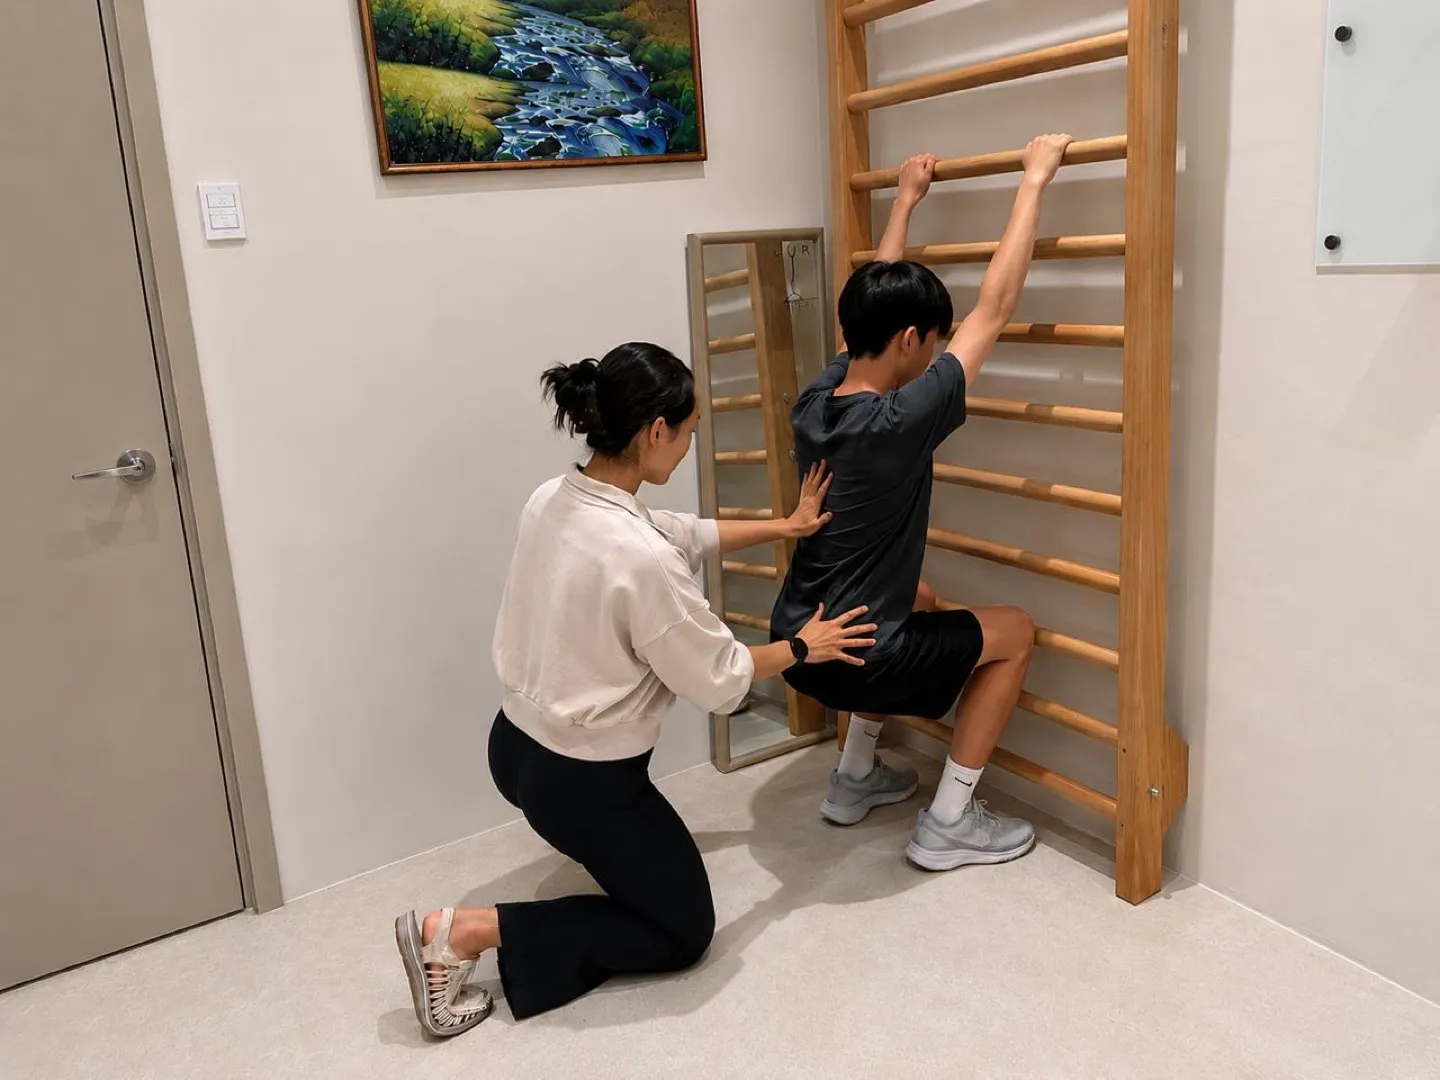
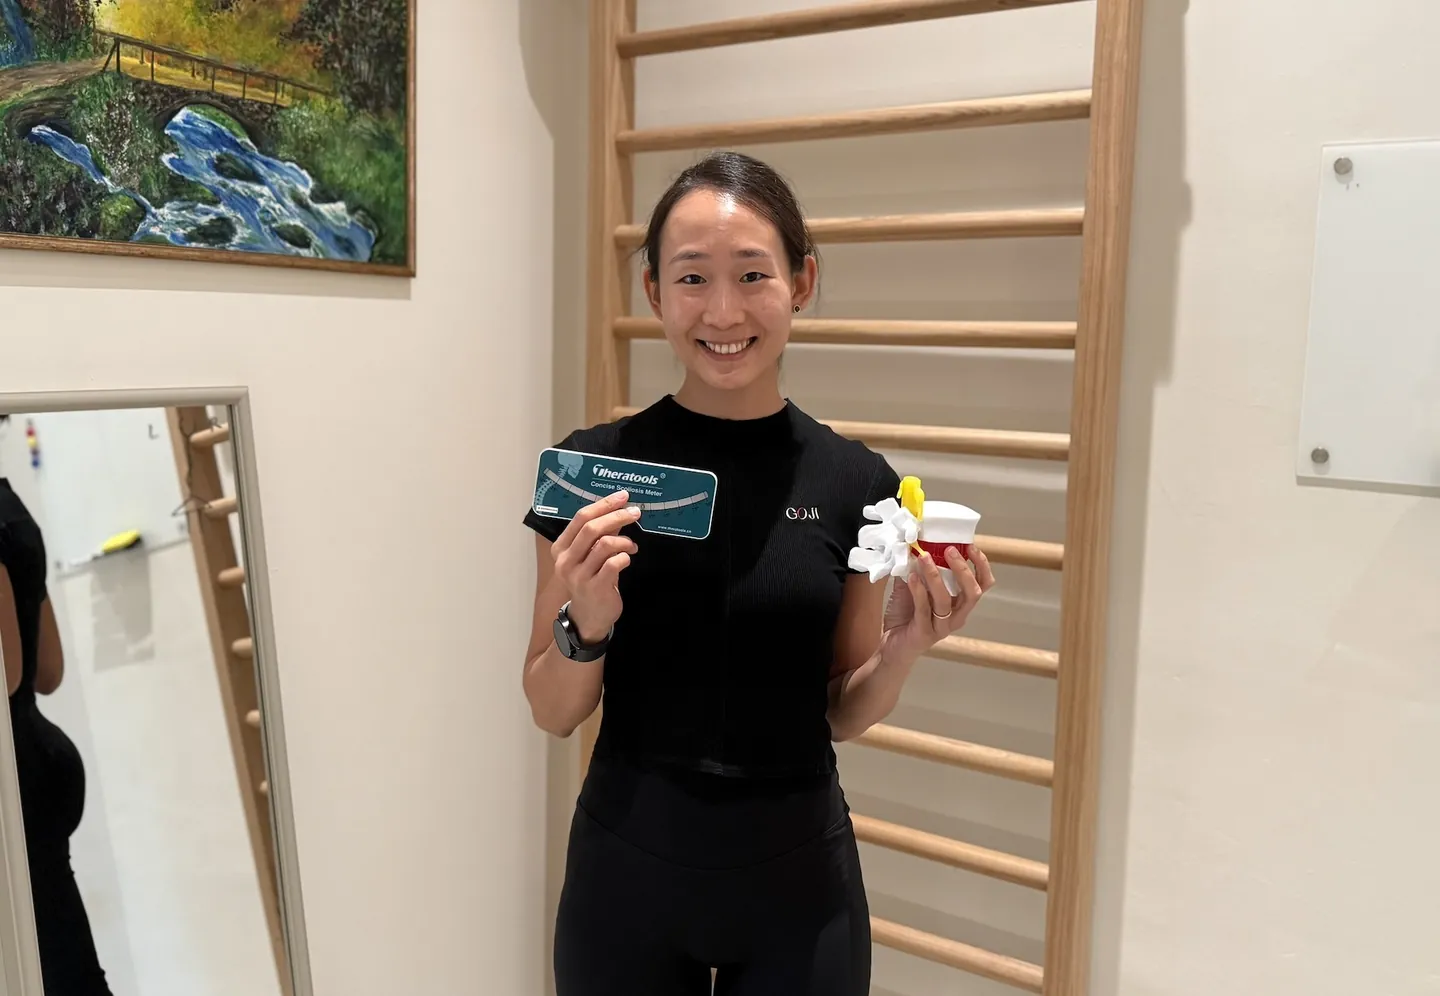
Website: refresh service photos + add dry needling to MSK
Update service hero photos from the latest client Drive images and add
photos to the four services that previously had none:

- New heroes: MSK & General, Paediatric, Strength & Conditioning, Clinical Pilates
- Updated: Schroth (children)
- MSK page: add "Dry needling (Cheryl Long only)" treatment line and an
  in-body dry-needling image (style .svc-body img: rounded + shadow)

All webp at 1440px/q80 to match the existing set. Prenatal, Postpartum,
Mummy & Baby, Schroth (adults) and Pelvic Floor unchanged.

diff --git a/marketing/website/prototype/src/content/services/musculoskeletal-physiotherapy.md b/marketing/website/prototype/src/content/services/musculoskeletal-physiotherapy.md
@@ -3,6 +3,8 @@ title: "Musculoskeletal Physiotherapy"
 description: "Musculoskeletal physiotherapy in Singapore for back, neck, shoulder, knee and sports injuries: assessment, hands-on treatment and a plan to get you moving."
 cardTitle: "MSK & General Physiotherapy"
 cardLead: "Assessment and treatment for back, neck, shoulder, joint and sports injuries - with a clear, personalised plan to get you moving well again."
+heroImage: "/photos/services/musculoskeletal-physiotherapy.webp"
+heroAlt: "A Goji physiotherapist taping a client's foot during a musculoskeletal physiotherapy session."
 category: "General Health"
 durationMin: 55
 priceClinic: 260
@@ -66,9 +68,12 @@ This is followed by a physical assessment tailored to your concerns, which may i
 Treatment may begin during the same session and may include:
 
 - Manual therapy
+- Dry needling (only available for sessions with Cheryl Long)
 - Exercise and rehabilitation
 - Pain and symptom management strategies
 - Guidance on activity, load management and return to work, exercise or sport
+
+![A Goji physiotherapist applying dry needling to a client's forearm.](/photos/services/dry-needling.webp)
 
 ## What you will leave with
 

diff --git a/marketing/website/prototype/src/content/services/paediatric-physiotherapy.md b/marketing/website/prototype/src/content/services/paediatric-physiotherapy.md
@@ -3,6 +3,8 @@ title: "Paediatric Physiotherapy"
 description: "Paediatric physiotherapy in Singapore for children 0-18: movement, pain, injury and developmental concerns, assessed and managed with a personalised plan."
 cardTitle: "Paediatric Physiotherapy"
 cardLead: "Individualised assessment and practical guidance for your child's movement, development, pain or injury - from babies to teens."
+heroImage: "/photos/services/paediatric-physiotherapy.webp"
+heroAlt: "A parent and baby during tummy time at a Goji paediatric physiotherapy session."
 category: "Children"
 durationMin: 55
 priceClinic: 260

diff --git a/marketing/website/prototype/src/content/services/strength-conditioning.md b/marketing/website/prototype/src/content/services/strength-conditioning.md
@@ -3,6 +3,8 @@ title: "Strength & Conditioning"
 description: "Strength & Conditioning in Singapore: coach-guided sessions to build strength, movement capacity and progress towards your physical or sporting goals."
 cardTitle: "Strength & Conditioning"
 cardLead: "Coach-guided training to build strength, movement capacity and confidence - adapted to your ability, experience and goals."
+heroImage: "/photos/services/strength-conditioning.webp"
+heroAlt: "A woman training with a kettlebell during a Goji Strength & Conditioning session."
 category: "Holistic Care"
 durationMin: 55
 priceClinic: 180

diff --git a/marketing/website/prototype/src/content/services/clinical-pilates.md b/marketing/website/prototype/src/content/services/clinical-pilates.md
@@ -3,6 +3,8 @@ title: "Clinical Pilates"
 description: "Clinical Pilates in Singapore: controlled, low-impact sessions guided by a physiotherapist to build strength, mobility, balance and movement confidence."
 cardTitle: "Clinical Pilates"
 cardLead: "Physiotherapist-guided, low-impact Pilates to build strength, mobility and movement confidence - adapted to your ability and goals."
+heroImage: "/photos/services/clinical-pilates.webp"
+heroAlt: "A Goji physiotherapist guiding two clients through a reformer Clinical Pilates session."
 category: "Holistic Care"
 durationMin: 55
 priceClinic: 180
